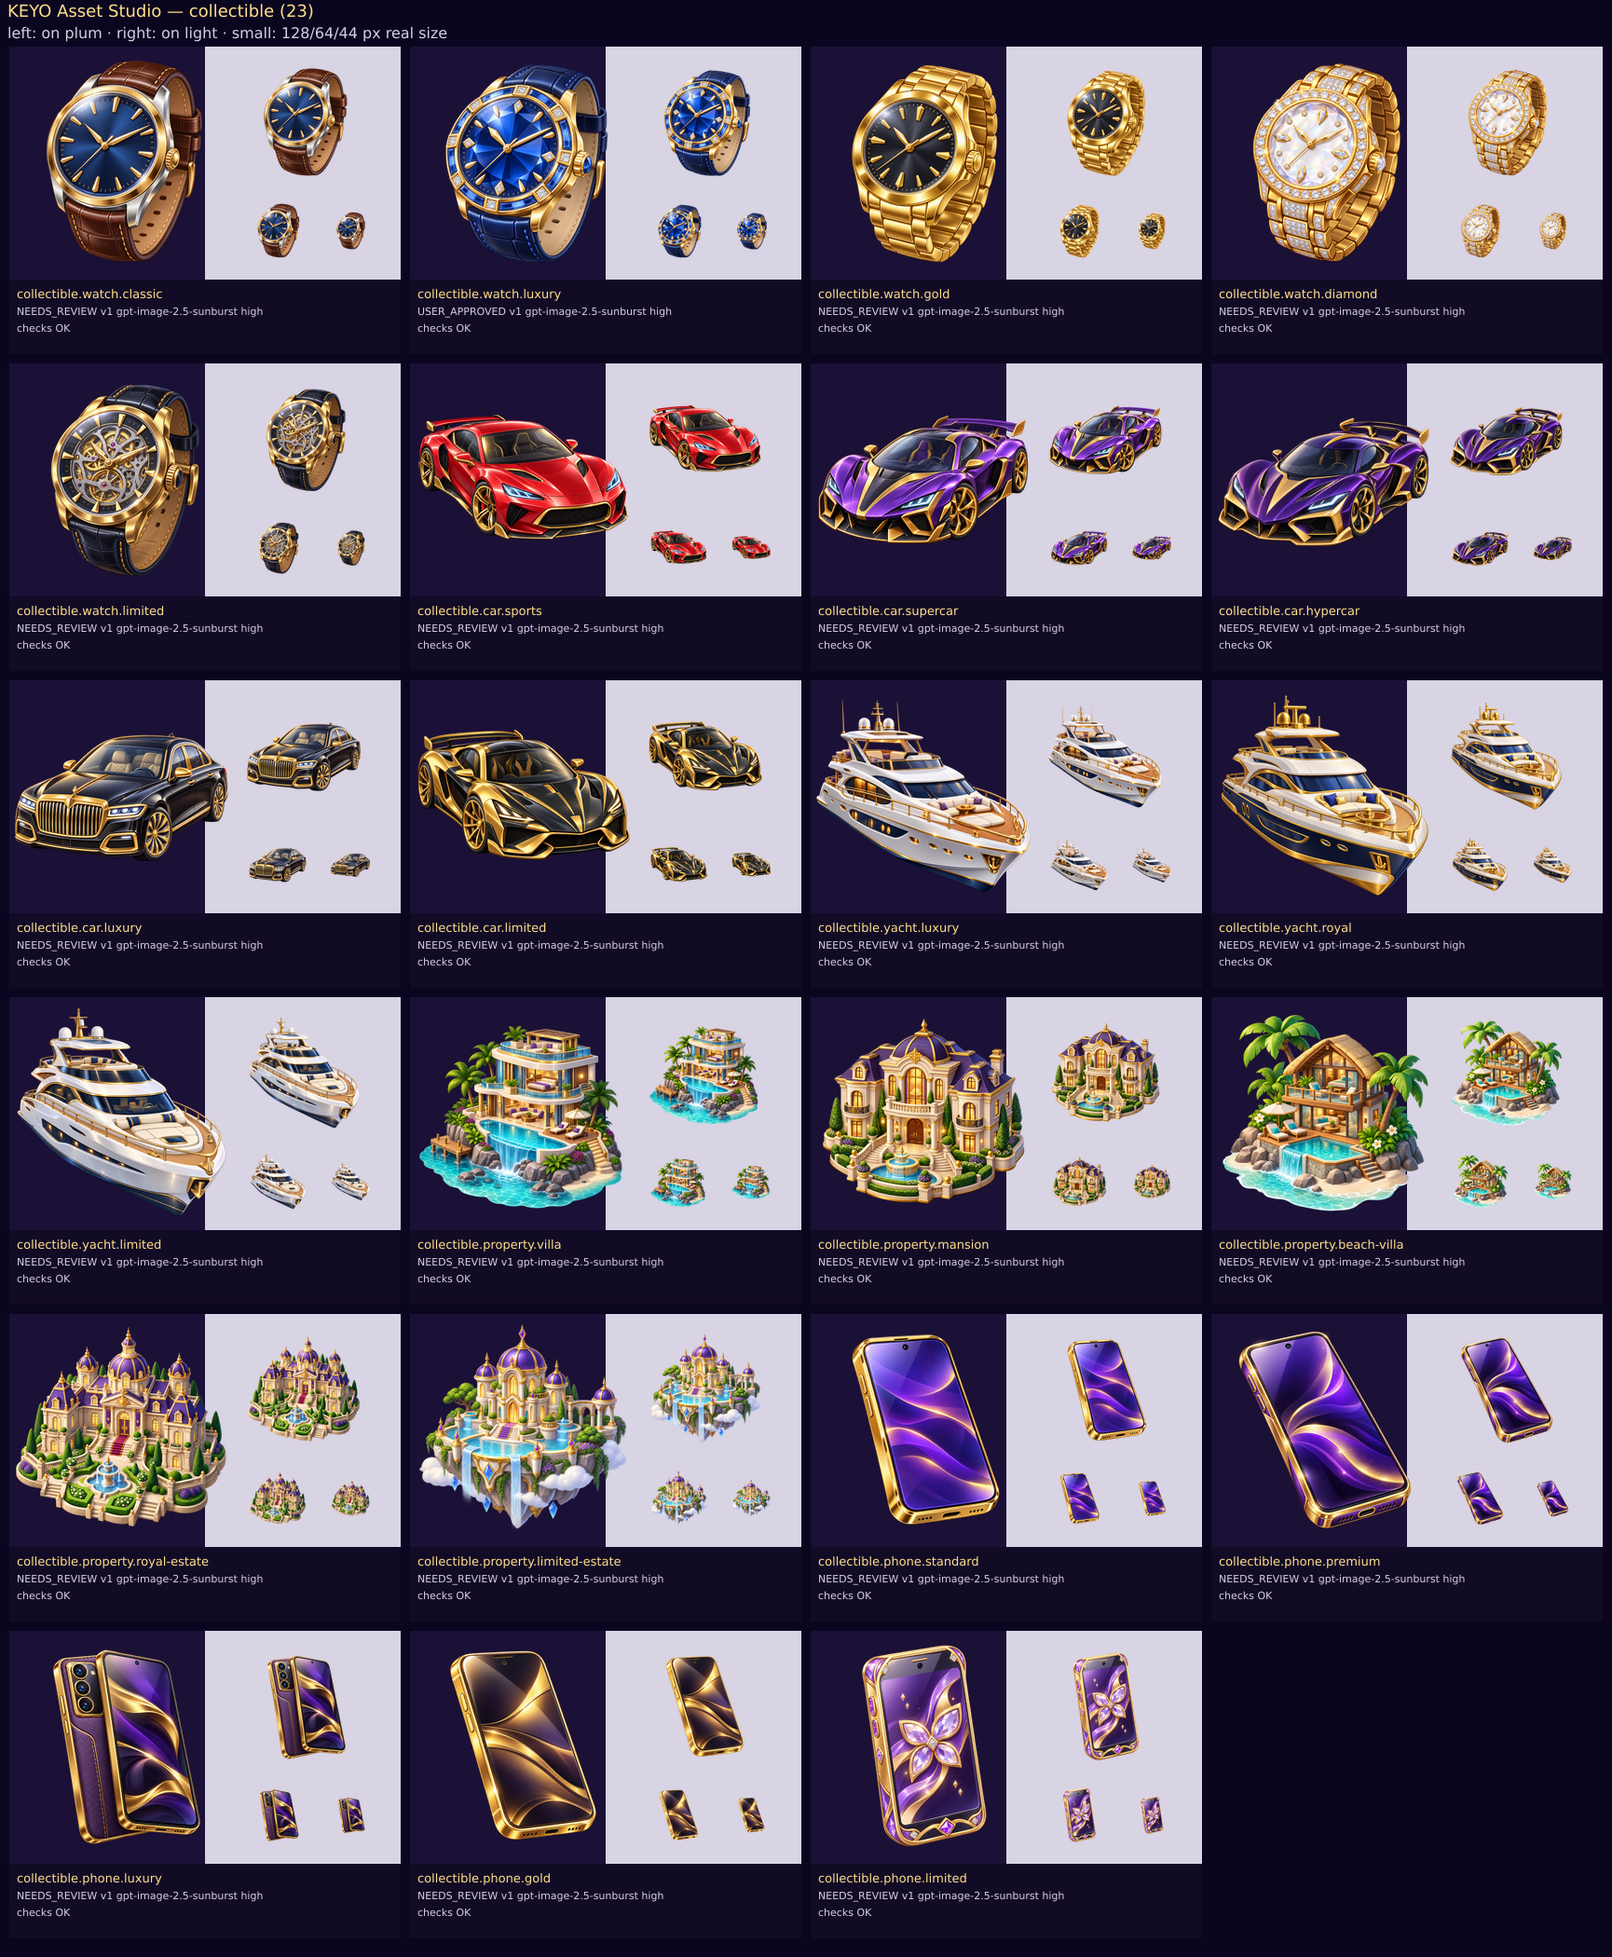
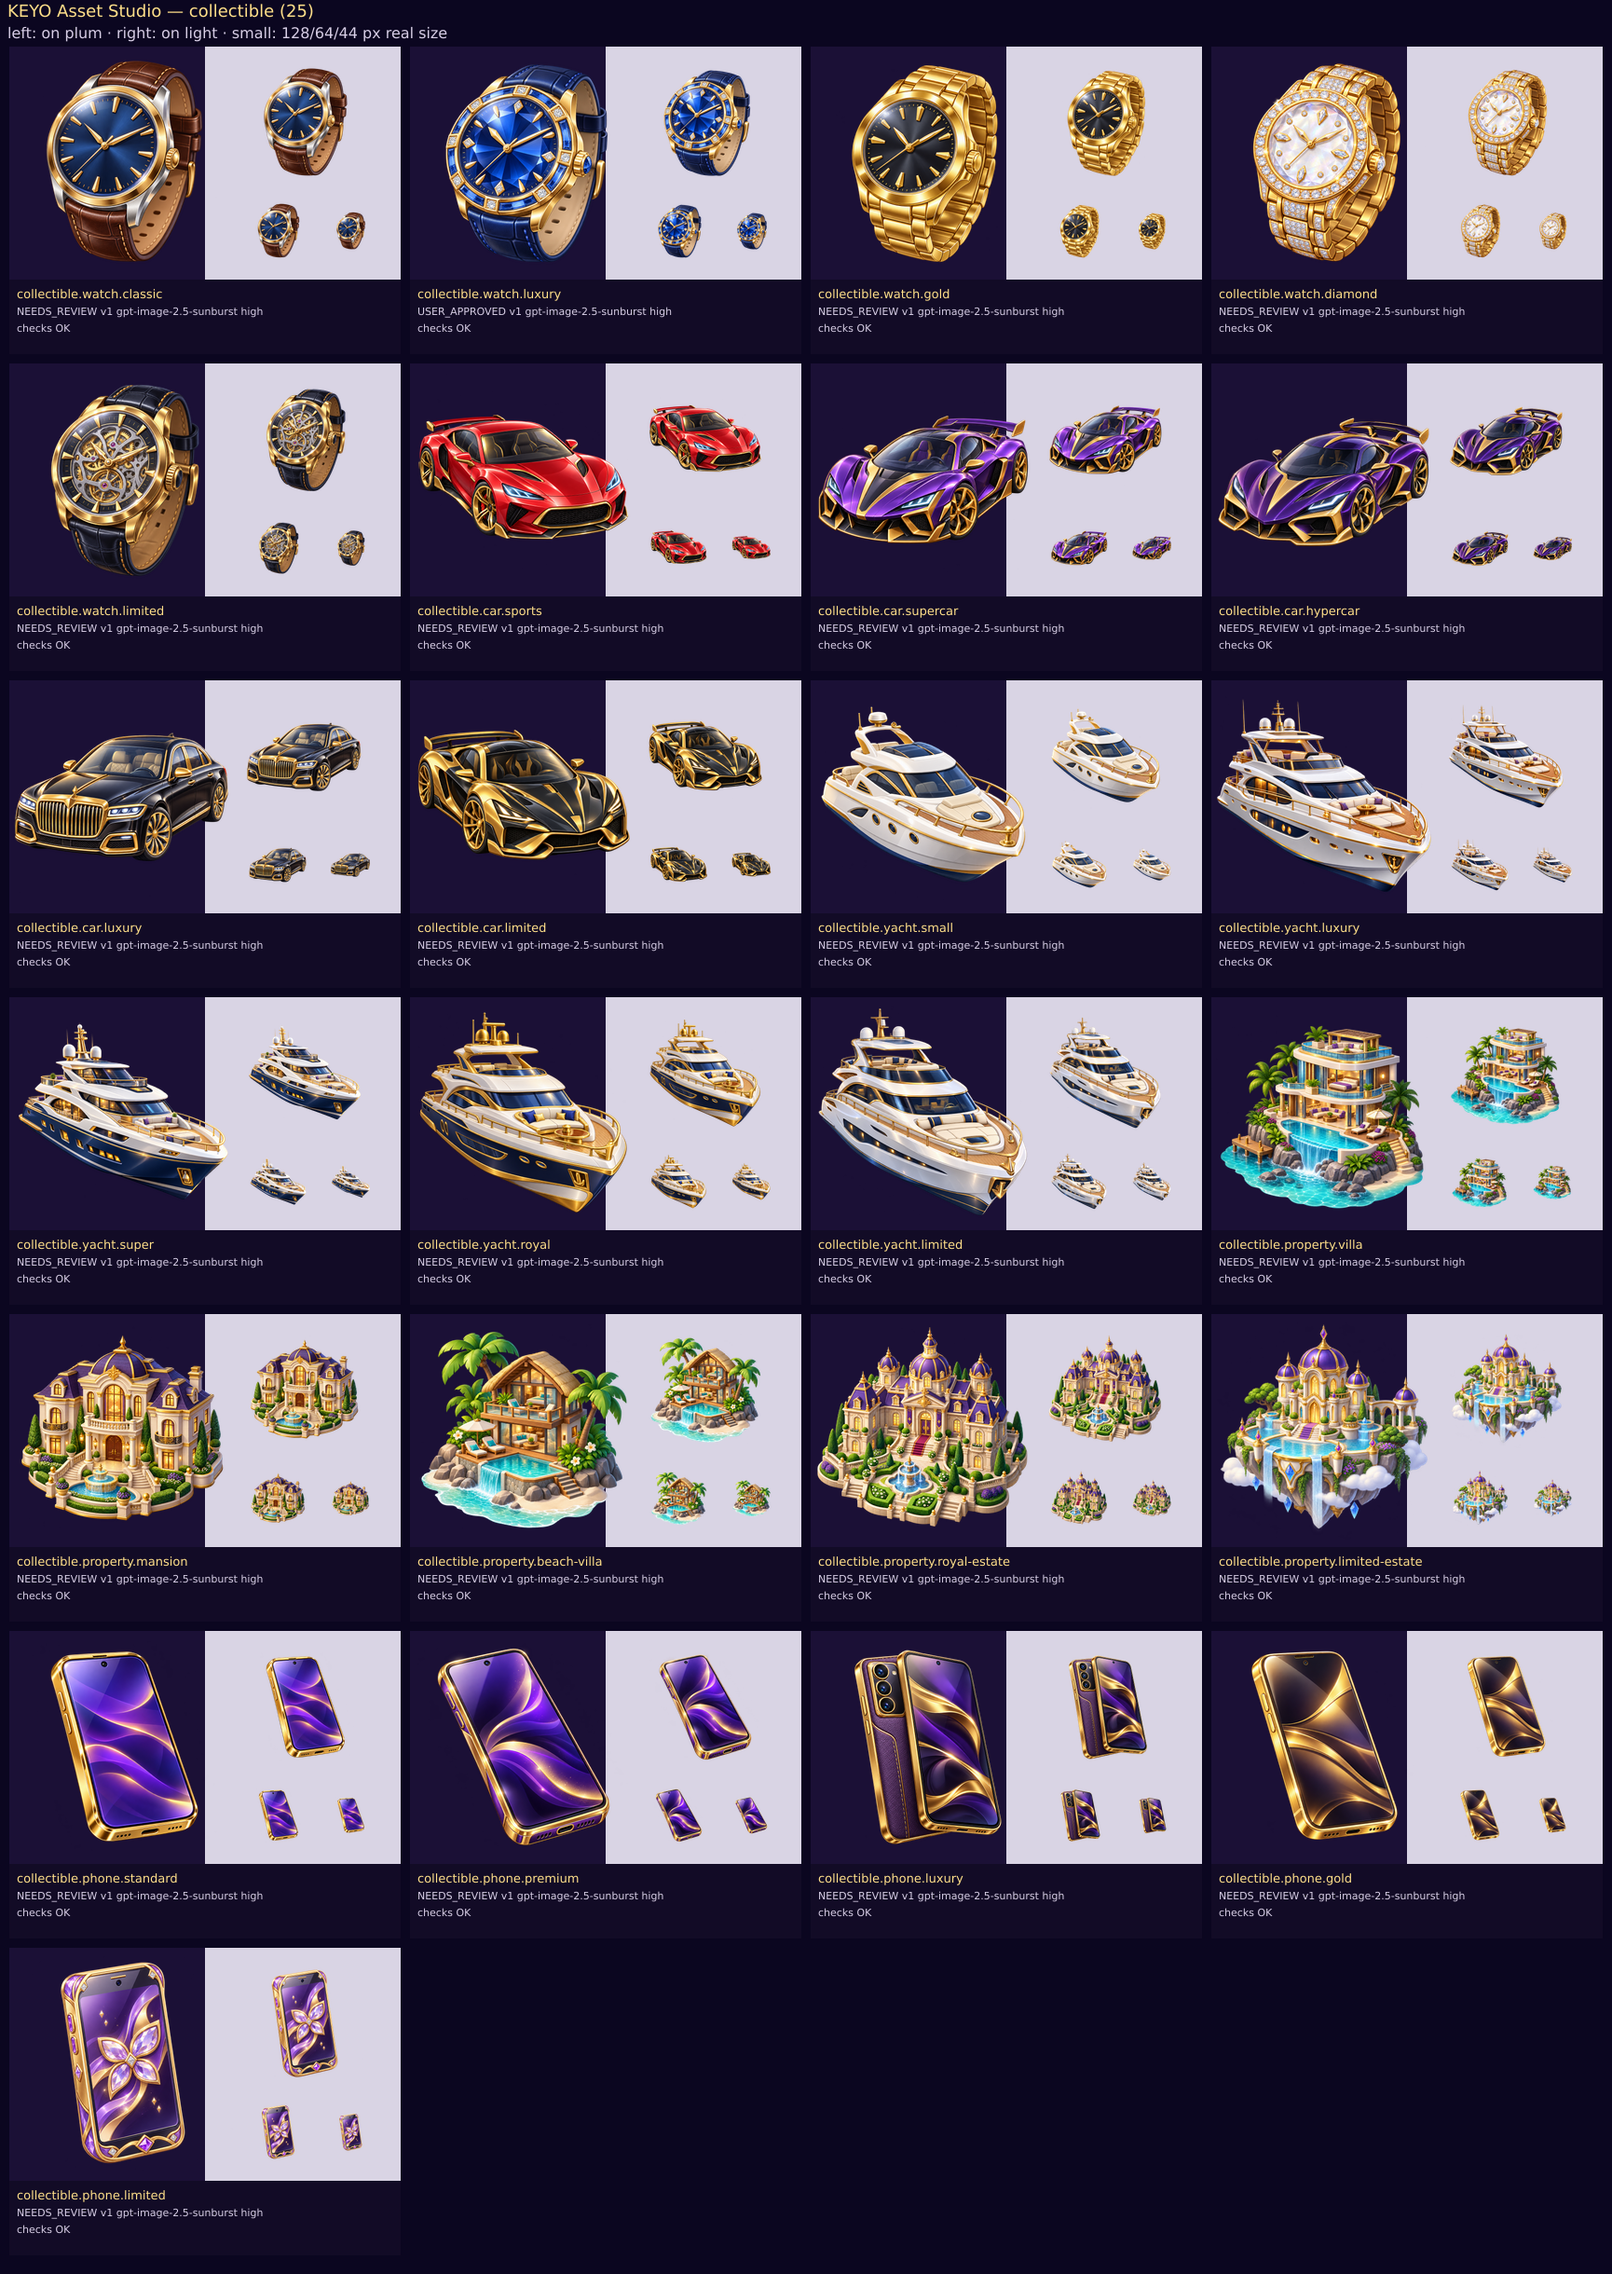
chore(asset-studio): checkpoint — 2026-11-07-lib-10-4-collectibles-2 done

diff --git a/docs/asset-studio/BUDGET.md b/docs/asset-studio/BUDGET.md
@@ -1,10 +1,10 @@
 # Budget Tracking (generated)
 
 - Ngân sách đã duyệt: **$10**
-- Đã tính vào ngân sách: **$7.9881** (chi phí thật từ token usage khi API trả về; nếu không có thì tính theo ước tính trần)
-- Chi phí thật theo token usage × bảng giá đã xác minh: $7.9881; tổng ước tính trần: $19.55
-- Còn lại theo bộ đếm nội bộ: **$2.01**
-- Ảnh đã tạo: 149; yêu cầu đã chạy: 2026-11-06-01-probe-dry-run, 2026-11-06-02-sample-1-generate, 2026-11-07-01-sample-1-revisions, 2026-11-07-lib-01-1-games-1, 2026-11-07-lib-02-1-games-2, 2026-11-07-lib-03-1-games-3, 2026-11-07-lib-04-1-games-4, 2026-11-07-lib-05-2-vip, 2026-11-07-lib-06-3-frames-profile-1, 2026-11-07-lib-07-3-frames-profile-2, 2026-11-07-lib-08-3-frames-profile-3, 2026-11-07-lib-09-4-collectibles-1
+- Đã tính vào ngân sách: **$8.0980** (chi phí thật từ token usage khi API trả về; nếu không có thì tính theo ước tính trần)
+- Chi phí thật theo token usage × bảng giá đã xác minh: $8.0980; tổng ước tính trần: $19.75
+- Còn lại theo bộ đếm nội bộ: **$1.90**
+- Ảnh đã tạo: 151; yêu cầu đã chạy: 2026-11-06-01-probe-dry-run, 2026-11-06-02-sample-1-generate, 2026-11-07-01-sample-1-revisions, 2026-11-07-lib-01-1-games-1, 2026-11-07-lib-02-1-games-2, 2026-11-07-lib-03-1-games-3, 2026-11-07-lib-04-1-games-4, 2026-11-07-lib-05-2-vip, 2026-11-07-lib-06-3-frames-profile-1, 2026-11-07-lib-07-3-frames-profile-2, 2026-11-07-lib-08-3-frames-profile-3, 2026-11-07-lib-09-4-collectibles-1, 2026-11-07-lib-10-4-collectibles-2
 
 > Bộ đếm nội bộ không thay thế giới hạn chi tiêu của OpenAI Platform. Số thực tế xem tại OpenAI dashboard → Usage.
 
@@ -159,10 +159,12 @@
 | 2026-11-07T01:33:07.109Z | 2026-11-07-lib-10-4-collectibles-2 | collectible.yacht.limited | gpt-image-2.5-sunburst | high | 1024x1024 | yes | $0.10 | in 458 / out 1756 |
 | 2026-11-07T01:33:40.081Z | 2026-11-07-lib-10-4-collectibles-2 | collectible.yacht.luxury | gpt-image-2.5-sunburst | high | 1024x1024 | yes | $0.10 | in 458 / out 1756 |
 | 2026-11-07T01:34:12.929Z | 2026-11-07-lib-10-4-collectibles-2 | collectible.yacht.royal | gpt-image-2.5-sunburst | high | 1024x1024 | yes | $0.10 | in 461 / out 1756 |
+| 2026-11-07T01:34:54.263Z | 2026-11-07-lib-10-4-collectibles-2 | collectible.yacht.small | gpt-image-2.5-sunburst | high | 1024x1024 | yes | $0.10 | in 459 / out 1756 |
+| 2026-11-07T01:35:24.861Z | 2026-11-07-lib-10-4-collectibles-2 | collectible.yacht.super | gpt-image-2.5-sunburst | high | 1024x1024 | yes | $0.10 | in 462 / out 1756 |
 
 ## Dự toán phần còn lại
 
-- 124 asset ở trạng thái PLANNED.
-- Theo chi phí thật đã đo (1024x1024: $0.0550, 1536x1024: $0.0434, 1024x1536: $0.0436): **$6.38**; cộng 30% dự phòng làm lại: **$8.29**.
-- Còn lại trong ngân sách đã duyệt: $2.01 → **cần nạp thêm khoảng $6.28** để hoàn thiện toàn bộ (gồm dự phòng); không dự phòng: $4.37.
-- Ước tính trần dùng để chặn chi tiêu (pricing.json): $12.40.
+- 122 asset ở trạng thái PLANNED.
+- Theo chi phí thật đã đo (1024x1024: $0.0550, 1536x1024: $0.0434, 1024x1536: $0.0436): **$6.27**; cộng 30% dự phòng làm lại: **$8.15**.
+- Còn lại trong ngân sách đã duyệt: $1.90 → **cần nạp thêm khoảng $6.25** để hoàn thiện toàn bộ (gồm dự phòng); không dự phòng: $4.37.
+- Ước tính trần dùng để chặn chi tiêu (pricing.json): $12.20.

diff --git a/docs/asset-studio/MANIFEST.md b/docs/asset-studio/MANIFEST.md
@@ -8,9 +8,9 @@ Nguồn dữ liệu: `assets/studio/manifest.json` (sinh từ `tools/asset-studi
 |---|---|
 | EXISTING_APPROVED | 9 |
 | USER_APPROVED | 18 |
-| NEEDS_REVIEW | 122 |
+| NEEDS_REVIEW | 124 |
 | NEEDS_REVISION | 6 |
-| PLANNED | 124 |
+| PLANNED | 122 |
 
 ## Theo nhóm
 
@@ -292,9 +292,9 @@ Nguồn dữ liệu: `assets/studio/manifest.json` (sinh từ `tools/asset-studi
 | collectible.car.hypercar | car: hypercar | Collectibles / Gifts | 1024x1024 | yes | P2 |  | NEEDS_REVIEW | 0.10 |
 | collectible.car.luxury | car: luxury | Collectibles / Gifts | 1024x1024 | yes | P2 |  | NEEDS_REVIEW | 0.10 |
 | collectible.car.limited | car: limited | Collectibles / Gifts | 1024x1024 | yes | P2 |  | NEEDS_REVIEW | 0.10 |
-| collectible.yacht.small | yacht: small | Collectibles / Gifts | 1024x1024 | yes | P2 |  | PLANNED | 0.10 |
+| collectible.yacht.small | yacht: small | Collectibles / Gifts | 1024x1024 | yes | P2 |  | NEEDS_REVIEW | 0.10 |
 | collectible.yacht.luxury | yacht: luxury | Collectibles / Gifts | 1024x1024 | yes | P2 |  | NEEDS_REVIEW | 0.10 |
-| collectible.yacht.super | yacht: super | Collectibles / Gifts | 1024x1024 | yes | P2 |  | PLANNED | 0.10 |
+| collectible.yacht.super | yacht: super | Collectibles / Gifts | 1024x1024 | yes | P2 |  | NEEDS_REVIEW | 0.10 |
 | collectible.yacht.royal | yacht: royal | Collectibles / Gifts | 1024x1024 | yes | P2 |  | NEEDS_REVIEW | 0.10 |
 | collectible.yacht.limited | yacht: limited | Collectibles / Gifts | 1024x1024 | yes | P2 |  | NEEDS_REVIEW | 0.10 |
 | collectible.property.villa | property: villa | Collectibles / Gifts | 1024x1024 | yes | P2 |  | NEEDS_REVIEW | 0.10 |

diff --git a/docs/asset-studio/QUALITY.md b/docs/asset-studio/QUALITY.md
@@ -136,7 +136,9 @@ Kiểm tra kỹ thuật tự động (file, kích thước, alpha thật, viền
 | collectible.car.hypercar | NEEDS_REVIEW | OK |  |  | 0.367 | 0.002 | 1187.5 | 149 KB |
 | collectible.car.luxury | NEEDS_REVIEW | OK |  |  | 0.391 | 0.011 | 1642.1 | 151 KB |
 | collectible.car.limited | NEEDS_REVIEW | OK |  |  | 0.401 | 0.005 | 1375.1 | 147 KB |
+| collectible.yacht.small | NEEDS_REVIEW | OK |  |  | 0.39 | 0 | 865.3 | 132 KB |
 | collectible.yacht.luxury | NEEDS_REVIEW | OK |  |  | 0.41 | 0.007 | 1130.1 | 155 KB |
+| collectible.yacht.super | NEEDS_REVIEW | OK |  |  | 0.353 | 0.002 | 1074.8 | 137 KB |
 | collectible.yacht.royal | NEEDS_REVIEW | OK |  |  | 0.427 | 0 | 1146.8 | 157 KB |
 | collectible.yacht.limited | NEEDS_REVIEW | OK |  |  | 0.444 | 0 | 1202.1 | 157 KB |
 | collectible.property.villa | NEEDS_REVIEW | OK |  |  | 0.521 | 0 | 1178.6 | 246 KB |
